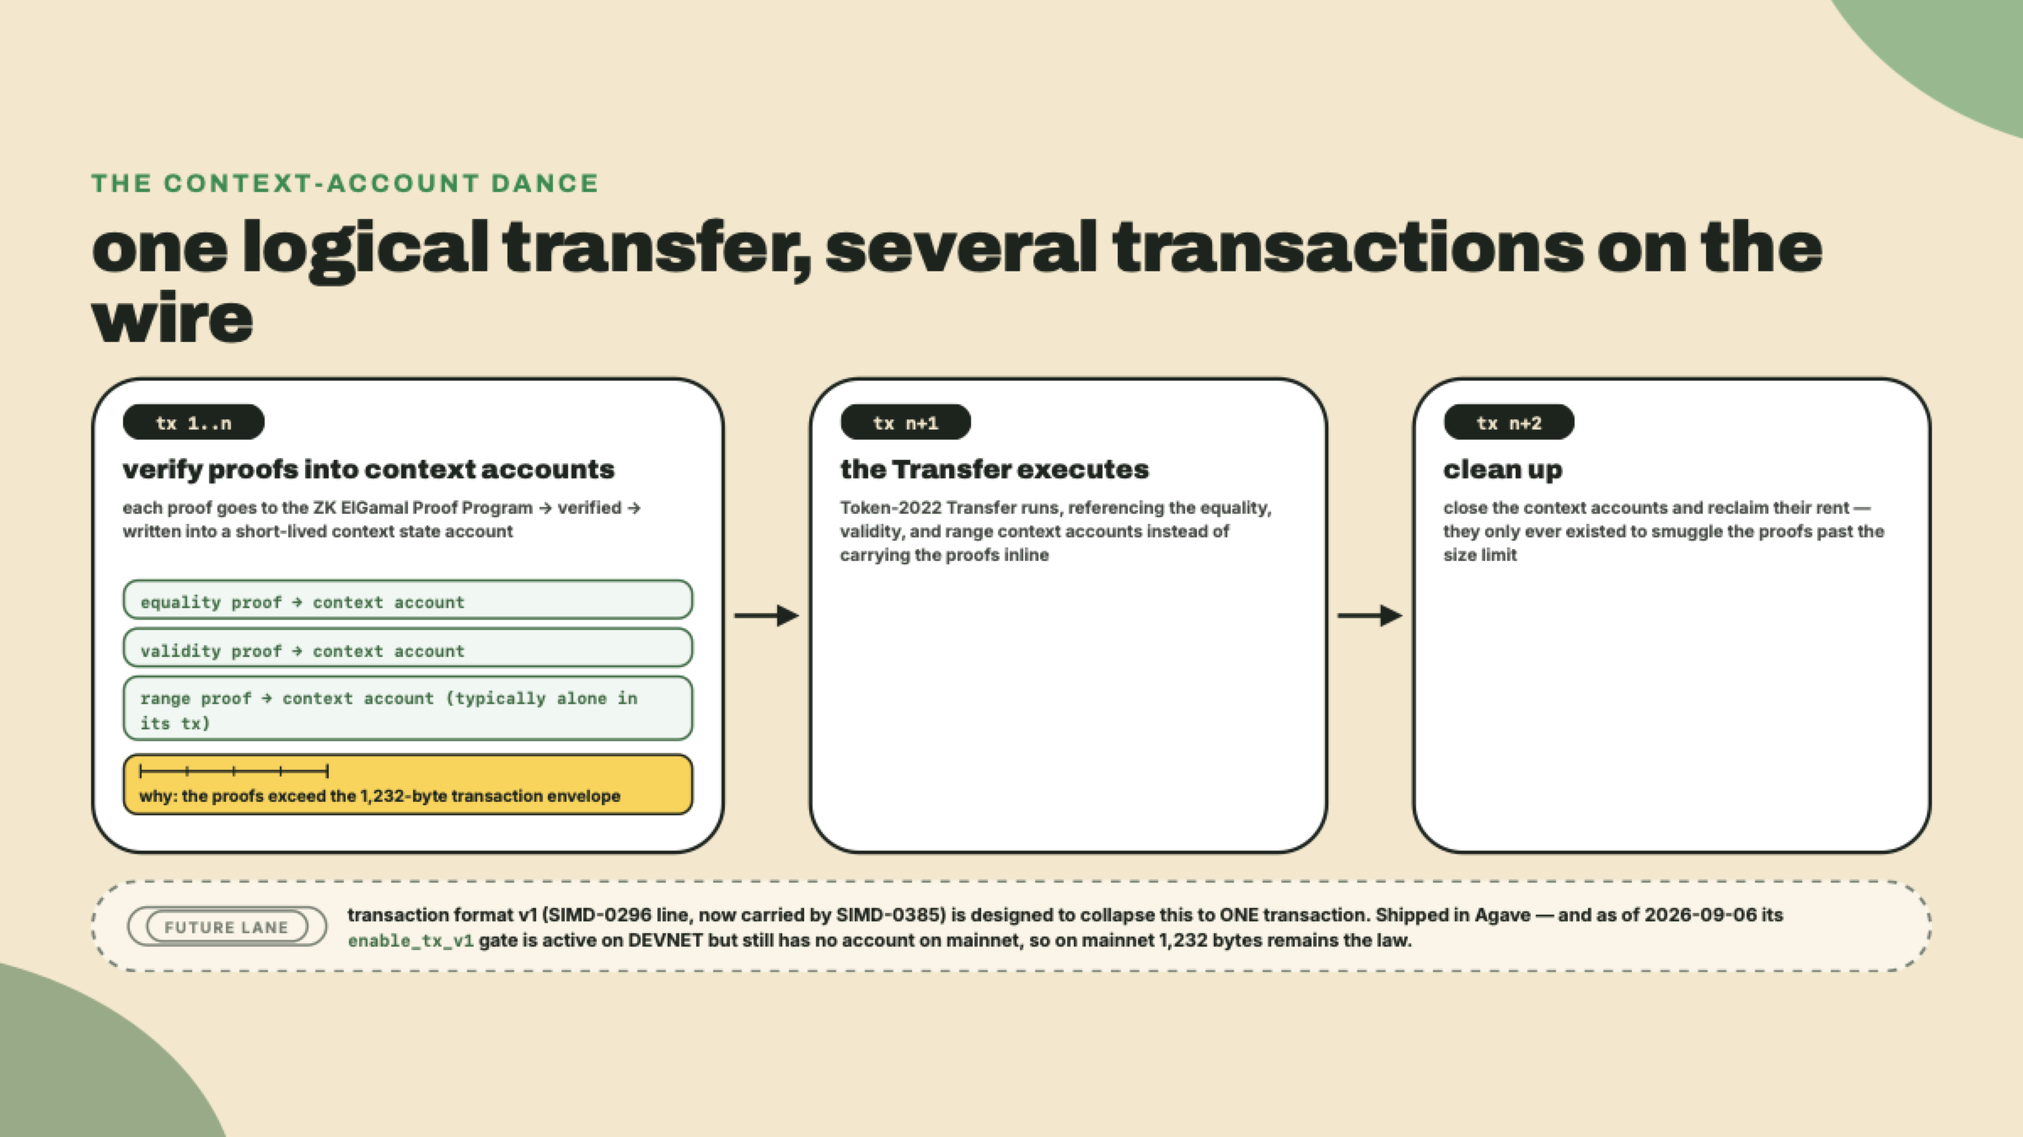
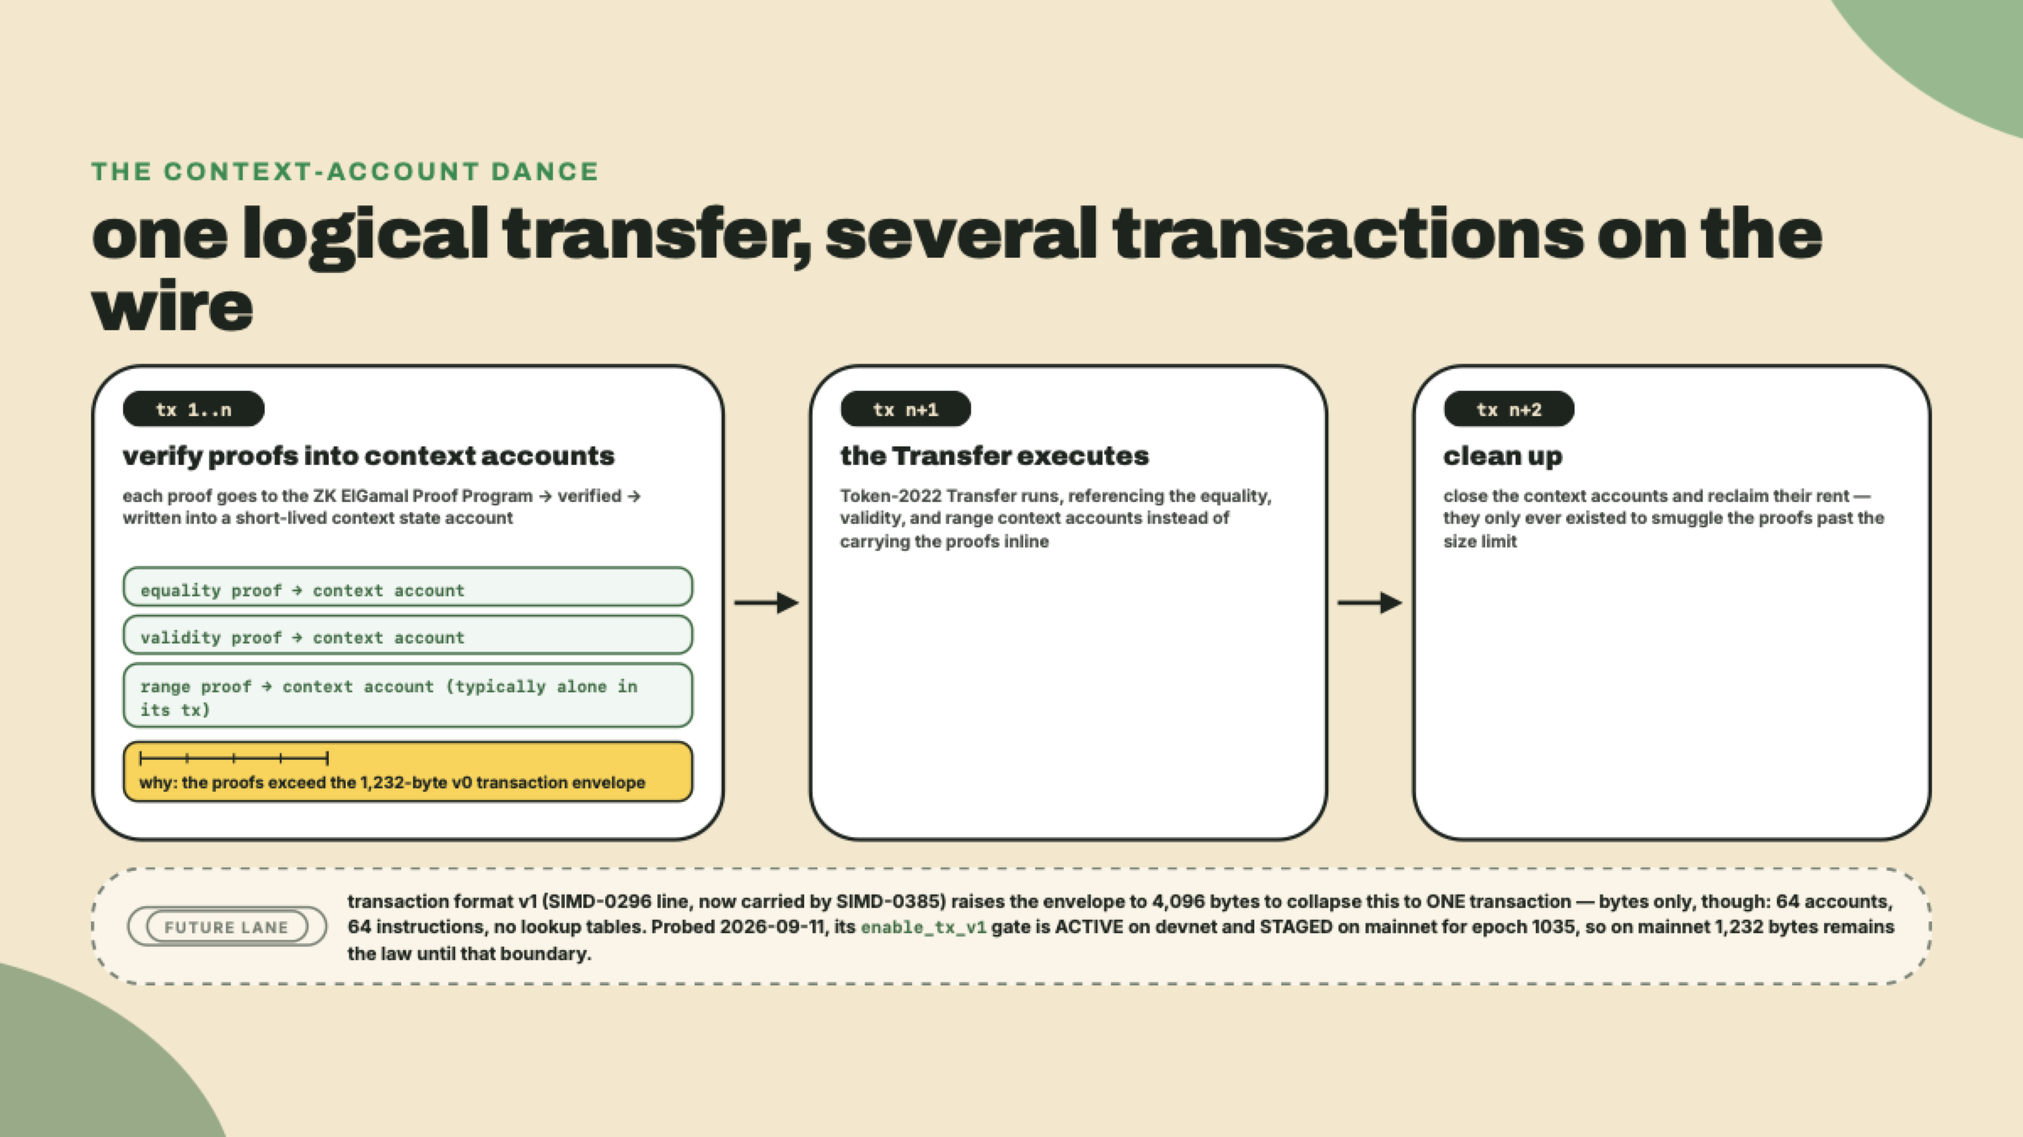
fix(digital-assets): re-probe the tx-v1 gate, and teach what v1 actually buys
The confidential-model lesson asserted, from a 2026-09-06 probe, that
mainnet had "no account, so not activated and not even staged". That is
false as of 2026-09-11: the gate account exists, holds 0.01 SOL, is owned
by the System Program and carries no data — a staged gate, scheduled for
epoch 1035. Devnet is unchanged, activated at slot 492,480,000.

- m04-l1 intro and quiz restate the probe against today's chain, and now
  name the tell the old text could not: owner System Program means
  staged, owner Feature111... means live, with the slot in the data.
- Both places stop implying v1 is a free win. It raises bytes to 4,096
  and nothing else — 64 accounts, 64 instructions, and no lookup tables —
  so whether a confidential transfer collapses into one transaction is
  arithmetic per flow, not a promise.
- m08-l3 marks the AirShip batch size of 15 as a v0 number and explains
  why it cannot simply be scaled by the ratio of envelopes: v1 hands back
  the lookup-table compression that was doing the work.
- m09-l1 notes lookup tables are a v0 mechanism.
- v06 and v03 re-rendered; alt text follows both.

quiz_permute check: 88 questions, 0 out of order. quiz_stats: pass.

diff --git a/courses/digital-assets/visual-src/m04-l1-confidential-model/v06-flowchart.html b/courses/digital-assets/visual-src/m04-l1-confidential-model/v06-flowchart.html
@@ -12,8 +12,8 @@
 <body>
 <!-- flowchart: One logical transfer, several transactions on the wire
      purpose: show the context-account dance that exists because the proofs cannot fit beside the transfer in 1,232 bytes
-     data: tx 1..n: submit each proof to the ZK ElGamal Proof Program -> verified -> written into a short-lived context state account (range proof typically alone in its tx) tx n+1: Token-2022 Transfer executes, referencing the equality, validity, and range context accounts tx n+2: close context accounts, reclaim rent constraint: proofs exceed the 1,232-byte transaction envelope future: transaction format v1 (SIMD-0296 line, now carried by SIMD-0385) is designed to collapse this to one transaction; shipped in Agave, and as of 2026-09-06 its `enable_tx_v1` gate (txv1aq4pp281K9um3tnPgkfX8UqtFT6wcVW3hNezGLL) is ACTIVE ON DEVNET since slot 492,480,000 but still has no account on mainnet, so on mainnet 1,232 bytes remains the law
-     prompt: Horizontal pipeline of three stages: "verify proofs into context accounts" (stack of small account boxes, one per proof), "Transfer references contexts", "close contexts, reclaim rent". A ruler graphic under stage 1 labeled "proofs > 1,232-byte tx envelope". Dashed future lane underneath: "tx format v1: one transaction, gate not active on mainnet yet".
+     data: tx 1..n: submit each proof to the ZK ElGamal Proof Program -> verified -> written into a short-lived context state account (range proof typically alone in its tx) tx n+1: Token-2022 Transfer executes, referencing the equality, validity, and range context accounts tx n+2: close context accounts, reclaim rent constraint: proofs exceed the 1,232-byte v0 transaction envelope future: transaction format v1 (SIMD-0296 line, now carried by SIMD-0385) is designed to collapse this to one transaction; shipped in Agave, and as of 2026-09-06 its `enable_tx_v1` gate (txv1aq4pp281K9um3tnPgkfX8UqtFT6wcVW3hNezGLL) is ACTIVE ON DEVNET since slot 492,480,000 but still has no account on mainnet, so on mainnet 1,232 bytes remains the law
+     prompt: Horizontal pipeline of three stages: "verify proofs into context accounts" (stack of small account boxes, one per proof), "Transfer references contexts", "close contexts, reclaim rent". A ruler graphic under stage 1 labeled "proofs > 1,232-byte v0 tx envelope". Dashed future lane underneath: "tx format v1: 4,096 bytes, one transaction, gate active on devnet and staged on mainnet for epoch 1035".
      BUILD .viz as on-brand HTML per skills/content-gen/references/visual-rendering.md.
      Header: <div class="stbr-eyebrow">..</div> + <h2 class="viz-title">..</h2>.
      Leave the .stbr-decor block untouched (per-asset brand decoration).
@@ -76,7 +76,7 @@
             <line x1="112" y1="2" x2="112" y2="10" stroke="#1B231D" stroke-width="1.5"/>
             <line x1="149" y1="0" x2="149" y2="12" stroke="#1B231D" stroke-width="2"/>
           </svg>
-          why: the proofs exceed the 1,232-byte transaction envelope
+          why: the proofs exceed the 1,232-byte v0 transaction envelope
         </div>
       </div>
     </div>
@@ -99,7 +99,7 @@
   </div>
   <div class="future">
     <span class="future-tag">future lane</span>
-    <span class="future-txt">transaction format v1 (SIMD-0296 line, now carried by SIMD-0385) is designed to collapse this to ONE transaction. Shipped in Agave &mdash; and as of 2026-09-06 its <code>enable_tx_v1</code> gate is active on DEVNET but still has no account on mainnet, so on mainnet 1,232 bytes remains the law.</span>
+    <span class="future-txt">transaction format v1 (SIMD-0296 line, now carried by SIMD-0385) raises the envelope to 4,096 bytes to collapse this to ONE transaction &mdash; bytes only, though: 64 accounts, 64 instructions, no lookup tables. Probed 2026-09-11, its <code>enable_tx_v1</code> gate is ACTIVE on devnet and STAGED on mainnet for epoch 1035, so on mainnet 1,232 bytes remains the law until that boundary.</span>
   </div>
 </div>
 </body></html>

diff --git a/courses/digital-assets/visual-src/m08-l3-airdrops-at-scale/v03-diagram.html b/courses/digital-assets/visual-src/m08-l3-airdrops-at-scale/v03-diagram.html
@@ -10,7 +10,7 @@
   .viz { position: relative; width: 100%; }
 </style></head>
 <body>
-<!-- diagram: How fifteen recipients fit in one 1,232-byte transaction
+<!-- diagram: How fifteen recipients fit in one 1,232-byte v0 transaction
      purpose: show that the batch size is a byte-budget outcome, not a knob someone picked
      data: Transaction envelope: 1,232 bytes, hard cap. Without a lookup table: every account address costs 32 bytes inline. The Light system accounts, the token pool, the state tree and the fee payer are all named in full, and the recipient list eats what is left. With the lookup table (mainnet 9NYFyEqPkyXUhkerbGHXUXkvb4qpzeEdHuGpgbgpH1NJ): the static accounts are referenced by 1-byte index into the table, freeing the space for 15 recipients across 3 compress instructions, 5 recipients each (maxAddressesPerInstruction = 5, maxAddressesPerTransaction = 15). Result: one transaction, 15,000 lamports, 15 recipients, 1,000 lamports each.
      prompt: Two stacked horizontal bars, both 1,232 bytes wide and labeled as such. Top bar "no lookup table": large segments for each static account at 32 bytes, leaving a small remainder segment labeled "room for recipients". Bottom bar "with lookup table": the static accounts collapse into one thin segment labeled "table indexes, 1 byte each", and a large segment labeled "15 recipients, 3 compress instructions of 5". Under the bottom bar, a small caption: "15,000 lamports per transaction / 15 recipients = 1,000 lamports each".
@@ -26,7 +26,7 @@
 <div class="viz">
   <div style="background:var(--surface-card);border-radius:24px;padding:34px 60px 28px;">
     <div class="stbr-eyebrow" style="color:var(--stbr-emerald);text-transform:uppercase;font-family:var(--font-display);font-weight:800;">batch size is a byte-budget outcome, not a knob</div>
-    <h2 class="viz-title" style="font-size:36px;margin:6px 0 22px;color:var(--stbr-dark);">How fifteen recipients fit in one 1,232-byte transaction</h2>
+    <h2 class="viz-title" style="font-size:36px;margin:6px 0 22px;color:var(--stbr-dark);">How fifteen recipients fit in one 1,232-byte v0 transaction</h2>
 
     <!-- top bar: no lookup table -->
     <div style="display:flex;justify-content:space-between;align-items:baseline;width:1232px;margin-bottom:6px;">

diff --git a/courses/digital-assets/lessons/m04-l1-confidential-model/intro.md b/courses/digital-assets/lessons/m04-l1-confidential-model/intro.md
@@ -114,7 +114,7 @@ The checking, notably, is not done by Token-2022 itself. SIMD-0153 gave the netw
 
 ### Why one transfer is several transactions, and why amounts stop at 2^48
 
-So a confidential transfer is ciphertexts plus three proofs. Now the ugly operational fact: those proofs are big. A range proof alone runs to hundreds of bytes, the trio together blows well past what fits beside a transfer instruction inside Solana's 1,232-byte transaction. The proofs are too large to ride along, so one logical transfer becomes several dependent transactions today.
+So a confidential transfer is ciphertexts plus three proofs. Now the ugly operational fact: those proofs are big. A range proof alone runs to hundreds of bytes, the trio together blows well past what fits beside a transfer instruction inside the 1,232 bytes a v0 or legacy transaction gets. The proofs are too large to ride along, so one logical transfer becomes several dependent transactions today.
 
 The mechanism that makes this workable is the context state account: a short-lived account, owned by the proof program, that records "proof X was verified" so a later transaction can point at it instead of carrying the proof. The dance, in order:
 
@@ -122,18 +122,20 @@ The mechanism that makes this workable is the context state account: a short-liv
 2. Transfer: the actual Token-2022 `Transfer` instruction executes, referencing the three context accounts instead of inline proofs.
 3. Close: the context accounts are closed and their rent reclaimed.
 
-![Flowchart of a confidential transfer split across dependent transactions: proofs verified into context accounts first, then the transfer referencing them, then context-account cleanup, constrained by the 1,232-byte transaction limit.](assets/v06-flowchart.png)
+![Flowchart of a confidential transfer split across dependent transactions: proofs verified into context accounts first, then the transfer referencing them, then context-account cleanup, constrained by the 1,232-byte v0 transaction limit, with a future lane noting transaction format v1's 4,096-byte envelope, active on devnet and staged on mainnet.](assets/v06-flowchart.png)
 
-This is not forever, and it is already moving. Transaction format v1 (the SIMD-0296 line, now carried by SIMD-0385) raises the envelope precisely so flows like this can collapse into a single transaction, and it has shipped in Agave. But shipped is not activated, and activated is per cluster. Agave's feature set names the gate `enable_tx_v1` and declares its address in `feature-set/src/lib.rs`:
+This is not forever, and it is already moving. Transaction format v1 (the SIMD-0296 line, now carried by SIMD-0385) raises the envelope to 4,096 bytes precisely so flows like this can collapse into a single transaction. Do not read that as a guarantee, though, because v1 raises bytes and nothing else: the caps on accounts and on top-level instructions stay at 64 apiece, and v1 drops Address Lookup Tables, so every account a transaction touches is spelled out inline at a full 32 bytes. Whether any particular confidential transfer fits in one v1 transaction is arithmetic you do per flow, not a promise you inherit. And shipped is not activated, and activated is per cluster. Agave's feature set names the gate `enable_tx_v1` and declares its address in `feature-set/src/lib.rs`:
 
 ```bash
 solana account txv1aq4pp281K9um3tnPgkfX8UqtFT6wcVW3hNezGLL --url mainnet-beta
 solana account txv1aq4pp281K9um3tnPgkfX8UqtFT6wcVW3hNezGLL --url devnet
 ```
 
-On 2026-09-06 mainnet answered `Error: AccountNotFound` — no account, so not activated and not even staged — while devnet returned an account owned by `Feature111111111111111111111111111111111111` whose nine data bytes decode as a `1` tag followed by activation slot 492,480,000. Devnet has it. Mainnet does not. So 1,232 bytes remains the law where your users are, the multi-transaction dance remains the reality you engineer for, and devnet is now a cluster where this particular constraint quietly does not reproduce — which is its own trap if you only ever test there.
+On 2026-09-11 mainnet answered with an account that exists but is not yet live: 0.01 SOL, owner `11111111111111111111111111111111`, and no data at all. That is what a *staged* gate looks like — funded and queued, waiting on an epoch boundary to adopt it. Devnet answered with an account owned by `Feature111111111111111111111111111111111111` whose nine data bytes decode as a `1` tag followed by activation slot 492,480,000: activated. The owner field is the tell, so read it first. Owned by the System Program means staged; owned by `Feature111…` means live, and the data carries the slot it went live at.
 
-Two notes on the probe itself, because the obvious one does not work. `solana feature status` prints only the gates compiled into the CLI you are holding: 76 rows on solana-cli 3.1.10, and this gate is not among them, so both `| grep -i tx_v1` and `solana feature status <that address>` come back empty or `Unknown feature`. Reading the account directly is the probe that cannot go stale, because it asks the chain rather than the binary. And re-check it before you quote this paragraph to anyone: it flipped on one cluster between this lesson's drafting and its last review.
+So devnet has v1 and mainnet has it scheduled, for epoch 1035. Until that boundary passes, 1,232 bytes remains the law where your users are, the multi-transaction dance remains the reality you engineer for, and devnet is already a cluster where this particular constraint quietly does not reproduce — which is its own trap if you only ever test there.
+
+Two notes on the probe itself, because the obvious one does not work. `solana feature status` prints only the gates compiled into the CLI you are holding: 76 rows on solana-cli 3.1.10, and this gate is not among them, so both `| grep -i tx_v1` and `solana feature status <that address>` come back empty or `Unknown feature`. Reading the account directly is the probe that cannot go stale, because it asks the chain rather than the binary. And re-check it before you quote this paragraph to anyone: both clusters have moved since this lesson was drafted — devnet activated, and mainnet went from having no account at all to having a staged one.
 
 The last constraint is the amount cap, and by now you can derive it yourself. Amounts are encrypted in chunks small enough to decrypt (a 16-bit low chunk, a 32-bit high chunk), so a single deposit or transfer is capped below 2^48. The source states it as a constant:
 

diff --git a/courses/digital-assets/lessons/m08-l3-airdrops-at-scale/intro.md b/courses/digital-assets/lessons/m08-l3-airdrops-at-scale/intro.md
@@ -203,9 +203,11 @@ Both numbers are right. They count different things. AirShip is quoting what lea
 
 That is the whole method. When a vendor figure and a first-party derivation disagree by an order of magnitude, the gap is almost always scope, and the honest move is to measure rather than cite. Your cost table gets an explicit `airship-tx-side` row for exactly this reason: a row whose label says what it counts cannot be quoted out of scope later.
 
-There is a second thing hiding in that constants file, and it is the reason the 15 exists. A transaction is capped at 1,232 bytes and every account it names costs 32 of them, so batching fifteen recipients plus the Light system accounts, the token pool, and the state tree into one transaction does not fit if you spell every address out. AirShip does not spell them out. It ships with an address lookup table, `9NYFyEqPkyXUhkerbGHXUXkvb4qpzeEdHuGpgbgpH1NJ` on mainnet and a separate one on devnet, holding the static accounts every drop transaction needs so they cost one byte of index each instead of 32. The batch size is not a tuning preference, it is what the byte budget allows once the fixed accounts are in a table.
+There is a second thing hiding in that constants file, and it is the reason the 15 exists. A v0 transaction is capped at 1,232 bytes and every account it names costs 32 of them, so batching fifteen recipients plus the Light system accounts, the token pool, and the state tree into one transaction does not fit if you spell every address out. AirShip does not spell them out. It ships with an address lookup table, `9NYFyEqPkyXUhkerbGHXUXkvb4qpzeEdHuGpgbgpH1NJ` on mainnet and a separate one on devnet, holding the static accounts every drop transaction needs so they cost one byte of index each instead of 32. The batch size is not a tuning preference, it is what the byte budget allows once the fixed accounts are in a table.
 
-![Two byte-budget bars for a 1,232-byte transaction showing that replacing full 32-byte static account addresses with one-byte lookup-table indexes leaves room for fifteen recipients in one AirShip transaction.](assets/v03-diagram.png)
+Note what 15 is a fact *about*, though, because the ground is moving under it: it is a v0 number, and it is a v0 number specifically because lookup tables exist. Transaction format v1 raises the envelope to 4,096 bytes and removes lookup tables in the same breath, so porting this batch is not a matter of scaling 15 up by the ratio of the envelopes. You get 2,864 more bytes and you lose the compression that was turning the fixed accounts from 32 bytes into one — and for a drop transaction, whose account set is mostly those same fixed accounts every time, that compression was doing the heavy lifting. Re-derive the batch size against the format you are actually sending; do not scale the old one. The method is the durable part here, not the 15.
+
+![Two byte-budget bars for a 1,232-byte v0 transaction showing that replacing full 32-byte static account addresses with one-byte lookup-table indexes leaves room for fifteen recipients in one AirShip transaction.](assets/v03-diagram.png)
 
 ### The claim path, and why SPROUT has to take it
 

diff --git a/courses/digital-assets/lessons/m09-l1-fee-routing-buyback/intro.md b/courses/digital-assets/lessons/m09-l1-fee-routing-buyback/intro.md
@@ -84,7 +84,7 @@ The crank has an operating cost and it is yours forever. Somebody pays the trans
 
 The good news is that the consolidation half is cheap. `harvest_withheld_tokens_to_mint` takes a whole `sources` array, so one instruction sweeps many accounts, and on my surfnet run back in the economics lesson a single-source harvest measured around 1,200 compute units. Consolidation being nearly free is exactly the right design for a call anyone is allowed to make.
 
-The constraint that actually bites is not compute, it is the transaction. Every source account you list is another account key in the message, and the message has to fit in a transaction. So your batch size is a packing problem: how many account addresses fit alongside the instruction data and the signatures. Work it out empirically for your own setup rather than trusting a number from a blog post, because address lookup tables, extra instructions, and your fee payer all move the ceiling. Then chunk the scan's output into batches of that size and send them as separate transactions. Partial failure is survivable here in a way it rarely is: harvest is idempotent in the sense that matters, since an account with zero withheld contributes zero, so a retry that re-includes an already-swept account is a no-op rather than a double-count.
+The constraint that actually bites is not compute, it is the transaction. Every source account you list is another account key in the message, and the message has to fit in a transaction. So your batch size is a packing problem: how many account addresses fit alongside the instruction data and the signatures. Work it out empirically for your own setup rather than trusting a number from a blog post, because address lookup tables, extra instructions, and your fee payer all move the ceiling — and the transaction format moves it too, since lookup tables are a v0 mechanism that v1 does not have. Then chunk the scan's output into batches of that size and send them as separate transactions. Partial failure is survivable here in a way it rarely is: harvest is idempotent in the sense that matters, since an account with zero withheld contributes zero, so a retry that re-includes an already-swept account is a no-op rather than a double-count.
 
 Which makes the batching itself about six lines, and worth keeping as its own function so the batch size is one number you can tune after you measure:
 
